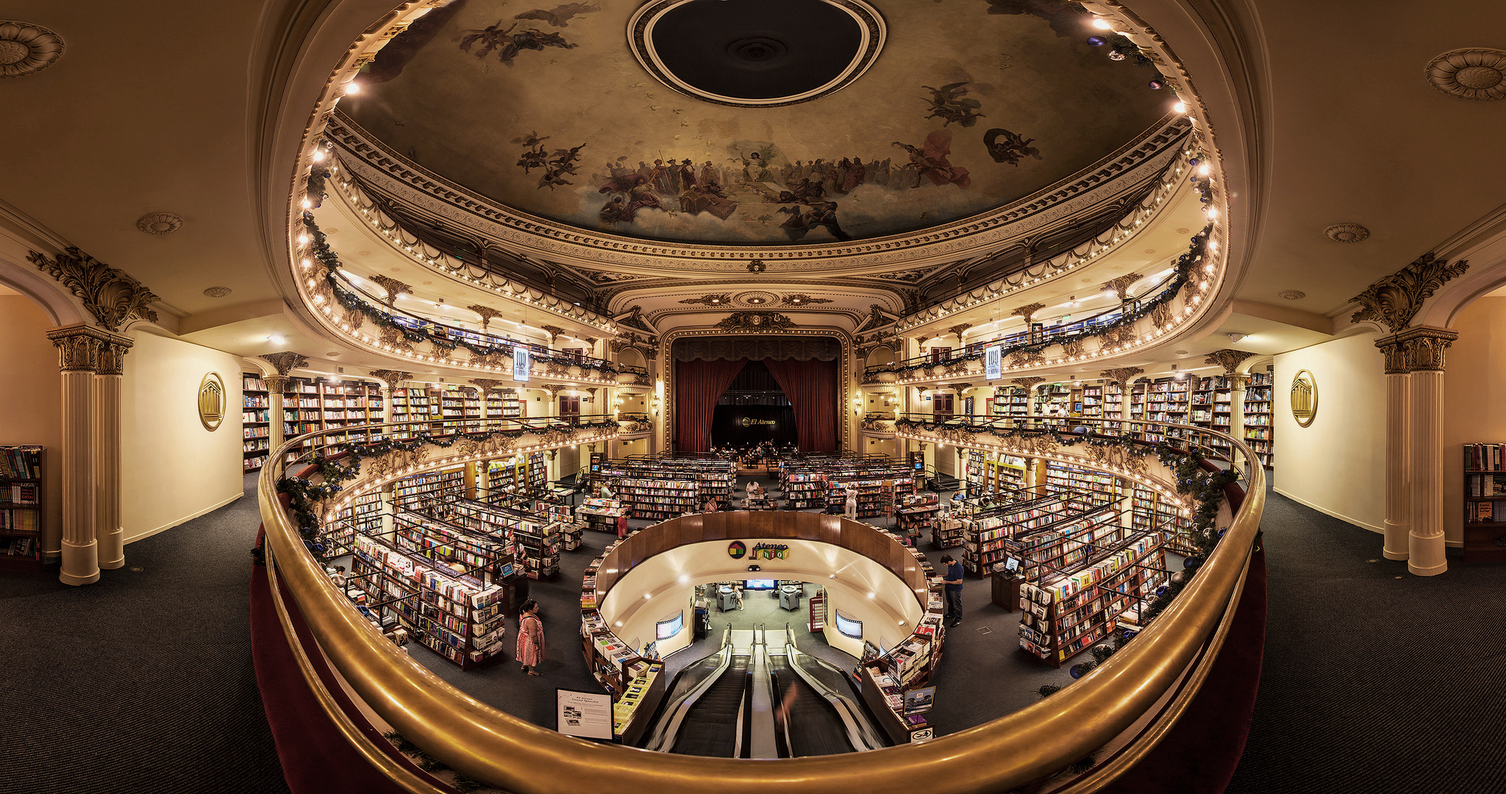
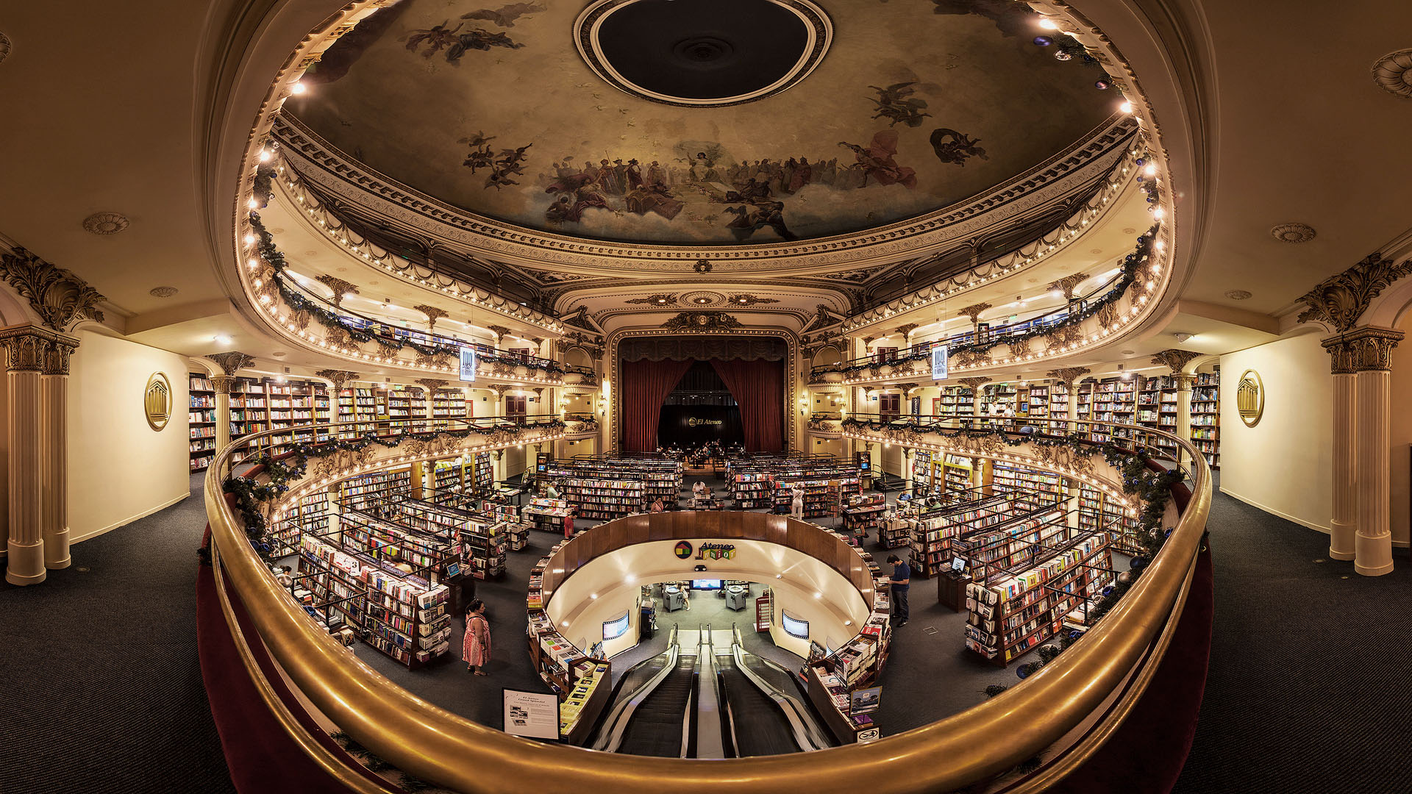
centered background image, tweaked layout and colors

diff --git a/index.html b/index.html
@@ -19,201 +19,189 @@
 
     <!-- Custom Fonts -->
     <link href="font-awesome/css/font-awesome.min.css" rel="stylesheet" type="text/css">
-    <link href="http://fonts.googleapis.com/css?family=Lora:400,700,400italic,700italic" rel="stylesheet" type="text/css">
+    <link href="http://fonts.googleapis.com/css?family=Lora:400,700,400italic,700italic" rel="stylesheet"
+          type="text/css">
     <link href="http://fonts.googleapis.com/css?family=Montserrat:400,700" rel="stylesheet" type="text/css">
 
     <!-- HTML5 Shim and Respond.js IE8 support of HTML5 elements and media queries -->
     <!-- WARNING: Respond.js doesn't work if you view the page via file:// -->
     <!--[if lt IE 9]>
-        <script src="https://oss.maxcdn.com/libs/html5shiv/3.7.0/html5shiv.js"></script>
-        <script src="https://oss.maxcdn.com/libs/respond.js/1.4.2/respond.min.js"></script>
+    <script src="https://oss.maxcdn.com/libs/html5shiv/3.7.0/html5shiv.js"></script>
+    <script src="https://oss.maxcdn.com/libs/respond.js/1.4.2/respond.min.js"></script>
     <![endif]-->
 
 </head>
 
 <body id="page-top" data-spy="scroll" data-target=".navbar-fixed-top">
 
-    <!-- Navigation -->
-    <nav class="navbar navbar-custom navbar-fixed-top" role="navigation">
+<!-- Navigation -->
+<nav class="navbar navbar-custom navbar-fixed-top" role="navigation">
+    <div class="container">
+        <div class="navbar-header">
+            <button type="button" class="navbar-toggle" data-toggle="collapse" data-target=".navbar-main-collapse">
+                <i class="fa fa-bars"></i>
+            </button>
+            <a class="navbar-brand page-scroll" href="#page-top">
+                <i class="fa fa-music"></i> <span class="light">The Music Connection Machine</span>
+            </a>
+        </div>
+
+        <!-- Collect the nav links, forms, and other content for toggling -->
+        <div class="collapse navbar-collapse navbar-right navbar-main-collapse">
+            <ul class="nav navbar-nav">
+                <!-- Hidden li included to remove active class from about link when scrolled up past about section -->
+                <li class="hidden">
+                    <a href="#page-top"></a>
+                </li>
+                <li>
+                    <a class="page-scroll" href="#plan">Plan</a>
+                </li>
+                <li>
+                    <a class="page-scroll" href="#how">How</a>
+                </li>
+                <li>
+                    <a class="page-scroll" href="#features">Features</a>
+                </li>
+                <li>
+                    <a class="page-scroll" href="#survey">Survey</a>
+                </li>
+            </ul>
+        </div>
+        <!-- /.navbar-collapse -->
+    </div>
+    <!-- /.container -->
+</nav>
+
+<!-- Intro Header -->
+<header class="intro">
+    <div class="intro-body">
         <div class="container">
-            <div class="navbar-header">
-                <button type="button" class="navbar-toggle" data-toggle="collapse" data-target=".navbar-main-collapse">
-                    <i class="fa fa-bars"></i>
-                </button>
-                <a class="navbar-brand page-scroll" href="#page-top">
-                    <i class="fa fa-music"></i>  <span class="light">Peachnote</span> Survey
-                </a>
-            </div>
+            <div class="row" style="background: rgba(256,256,256,0.9); margin-top: 100px; margin-left: 100px;
+                 margin-right: 100px; padding-top: 50px; padding-bottom: 40px; border-radius: 1px; color: black">
+                <div class="col-md-8 col-md-offset-2" style="width: 77%; margin-left: 11.5%">
+                    <h1 class="brand-heading">Would you like to</h1>
 
-            <!-- Collect the nav links, forms, and other content for toggling -->
-            <div class="collapse navbar-collapse navbar-right navbar-main-collapse">
-                <ul class="nav navbar-nav">
-                    <!-- Hidden li included to remove active class from about link when scrolled up past about section -->
-                    <li class="hidden">
-                        <a href="#page-top"></a>
-                    </li>
-                    <li>
-                        <a class="page-scroll" href="#about">About</a>
-                    </li>
-                    <li>
-                        <a class="page-scroll" href="#survey">Survey</a>
-                    </li>
-                    <li>
-                        <a class="page-scroll" href="#contact">Contact</a>
-                    </li>
-                </ul>
-            </div>
-            <!-- /.navbar-collapse -->
-        </div>
-        <!-- /.container -->
-    </nav>
+                    <p class="intro-text" style="line-height: 50px; font-size:32px;">
+                        Have a perfect musical memory?<br>
+                        Know every score and recording by heart?<br>
+                        Have read every book about music?<br>
+                        Be able to make sense of it all?<br>
 
-    <!-- Intro Header -->
-    <header class="intro">
-        <div class="intro-body">
-            <div class="container">
-                <div class="row" style="background: rgba(0,0,0,0.8); margin: 100px; padding: 50px; border-radius: 1px">
-                    <div class="col-md-8 col-md-offset-2">
-                        <h1 class="brand-heading">Would you like to</h1>
-                        <p class="intro-text">
-                          <span style="font-family: &#39;open sans&#39;; font-size: 24px; line-height: 38px;">Have a perfect musical memory?</span><br>
-                          <span style="font-size:24px;"><span style="font-family:open sans;">Know every score and recording by heart?</span><br>
-                          <span style="font-size:24px;"><span style="font-family:open sans;">Have read every book about music?</span><br>
-                          <span style="font-size:24px;"><span style="font-family:open sans;">Be able to make sense of all that?</span><br>
-
-                        </p>
-                        <a href="#about" class="btn btn-circle page-scroll">
-                            <i class="fa fa-angle-double-down animated"></i>
-                        </a>
-                    </div>
+                    </p>
+                    <a href="#plan" class="btn btn-circle page-scroll">
+                        <i class="fa fa-angle-double-down animated"></i>
+                    </a>
                 </div>
             </div>
         </div>
-    </header>
+    </div>
+</header>
 
-    <!-- About Section -->
-    <section id="about" class="container content-section text-center">
-        <div class="row">
-            <div class="col-lg-8 col-lg-offset-2">
-                <h2>We sure would</h2>
-                <p><span style="font-family:open sans;"><span style="font-size:24px;">That's why we at Peachnote
-                	are planning a project that will let <em>you</em>, <br>us and everybody else feel a bit like we could be all that.</span></span></p>
-            </div>
+<!-- About Section -->
+<section id="plan" class="container content-section text-center">
+    <div class="row">
+        <div class="col-lg-8 col-lg-offset-2">
+            <h2>We sure would</h2>
+
+            <p><span style="font-family:open sans;"><span style="font-size:24px;">That's why we at Peachnote
+                	are planning a project <br>that will let <em>you</em>, us and everybody else <br> feel a bit like we could be all that.</span></span>
+            </p>
         </div>
-    </section>
+    </div>
+</section>
 
-    <section id="foo" class="container content-section text-center">
-        <div class="row">
-            <div class="col-lg-8 col-lg-offset-2">
-                <h2>This is how it will work</h2>
-                <p><span style="font-family:open sans;"><span style="font-size:24px;">
-                  We analyze every score, recording and book
-                  that we can get our hands on,
-                  find interesting connections between them
-                  and make these connections accessible through easy to use interfaces,
-                  so that your musical knowledge stretches further and further,
+<section id="how" class="container content-section text-center">
+    <div class="row">
+        <div class="col-lg-8 col-lg-offset-2">
+            <h2>This is how it will work</h2>
+
+            <p><span style="font-family:open sans;"><span style="font-size:24px;">
+                  We analyze every score, recording and book<br>
+                  that we can get our hands on,<br>
+                  find interesting connections between them<br>
+                  and make these connections accessible <br>through easy to use interfaces,<br>
+                  so that your musical knowledge stretches further and further,<br>
                   click for click</span></span></p>
-            </div>
         </div>
-    </section>
+    </div>
+</section>
 
-    <section id="foo" class="container content-section text-center">
-        <div class="row">
+<section id="features" class="container content-section text-center">
+    <div class="row">
+        <div class="col-lg-8 col-lg-offset-2">
+            <h2>Some examples <br> of what you'll be able to do</h2>
+
+            <p>
+            <table>
+                <tr style="border: 0px; font-size:24px; font-family:open sans; margin: 0; padding: 0; margin-bottom: 20px;">
+                    <td>
+                        <ul>
+                            <li>
+                                See the differences between various sheet music editions
+                            </li>
+                            <li>
+                                See how composers influenced each other throughout the history
+                            </li>
+                            <li>
+                                See how musical pieces are connected by quotations throughout the history
+                            </li>
+                        </ul>
+                    </td>
+                    <td>
+                        <ul>
+                            <li>
+                                Hear how each place in a score sounds in various performances
+                            </li>
+                            <li>
+                                See the differences between multiple interpretations
+                            </li>
+                            <li>
+                                See how similar or dissimilar composers and musicians are based on how their style
+                            </li>
+                        </ul>
+                    </td>
+                </tr>
+            </table>
+            </p>
+        </div>
+    </div>
+</section>
+
+<!-- Download Section -->
+<section id="survey" class="content-section text-center">
+    <!--<div class="download-section">-->
+        <div class="container">
             <div class="col-lg-8 col-lg-offset-2">
-                <h2>Some examples of what you'll be able to do</h2>
-                <p>
-                  <table>
-                    <tr>
-                      <td style="border: 0px;">
-                  <ul>
-                  <li style="line-height: 30px; margin: 0; padding: 0; margin-bottom: 20px;">
-                  <span style="font-size:22px;"><span style="font-family:open sans;">Hear how each place in a score sounds in various performances</span></span>
-                  </li>
-                  <li style="line-height: 30px; margin: 0; padding: 0; margin-bottom: 20px;">
-                  <span style="font-size:22px;"><span style="font-family:open sans;">See how composers influenced each other throughout the history</span></span>
-                  </li>
-                  <li style="line-height: 30px; margin: 0; padding: 0; margin-bottom: 20px;">
-                  <span style="font-size:22px;"><span style="font-family:open sans;">See how musical pieces are connected by quotations throughout the history</span></span>
-                  </li>
-                  </td>
-                  <td style="border: 0px;">
-                  <ul>
-                    <li style="line-height: 30px; margin: 0; padding: 0; margin-bottom: 20px;">
-                  <span style="font-size:22px;"><span style="font-family:open sans;">See the differences between various sheet music editions</span></span>
-                  </li>
-                  <li style="line-height: 30px; margin: 0; padding: 0; margin-bottom: 20px;">
-                  <span style="font-size:22px;"><span style="font-family:open sans;">See the differences between multiple interpretations</span></span>
-                  </li>
-                  <li style="line-height: 30px; margin: 0; padding: 0; margin-bottom: 20px;">
-                  <span style="font-size:22px;"><span style="font-family:open sans;">See how similar or dissimilar composers and musicians are based on how their style</span></span>
-                  </li>
-                  </ul>
-                  </td>
-                  </tr>
-                  </table>
-                </p>
+                <h2>Your interests will direct our work</h2>
+
+                <p>Which tools should we build for you?<br>
+                    Which questions would you ask the system?<br>
+                    Tell us and be the first to know<br>
+                    when we have built the tools you wanted to have. </p>
+                <a href="https://docs.google.com/forms/d/1znpMOy_xWsbtz9Xocbxkrykc7ndbdex3IJsBBEjY3R0/viewform"
+                   class="btn btn-default btn-lg">To the Survey</a>
             </div>
         </div>
-    </section>
+    <!--</div>-->
+</section>
 
-    <!-- Download Section -->
-    <section id="survey" class="content-section text-center">
-        <div class="download-section">
-            <div class="container">
-                <div class="col-lg-8 col-lg-offset-2">
-                    <h2>Your interests will direct our work</h2>
-                    <p>Which tools should we build for you?<br>
-                        Which questions would you ask the system?<br>
-                        Tell us and be the first to know<br>
-                        when we have built the tools you wanted to have. </p>
-                    <a href="https://docs.google.com/forms/d/1znpMOy_xWsbtz9Xocbxkrykc7ndbdex3IJsBBEjY3R0/viewform" class="btn btn-default btn-lg">To the Survey</a>
-                </div>
-            </div>
-        </div>
-    </section>
+<!-- Footer -->
+<footer>
+    <div class="container text-center">
+        <p>Copyright &copy; Peachnote 2015</p>
+    </div>
+</footer>
 
-    <!-- Contact Section -->
-    <section id="contact" class="container content-section text-center">
-        <div class="row">
-            <div class="col-lg-8 col-lg-offset-2">
-                <h2>Contact Peachnote</h2>
-                <p>Feel free to email us to provide some feedback or to just say hello!</p>
-                <p><a href="mailto:foo@foo.com">foo@foo.com</a>
-                </p>
-                <ul class="list-inline banner-social-buttons">
-                    <li>
-                        <a href="https://twitter.com/SBootstrap" class="btn btn-default btn-lg"><i class="fa fa-twitter fa-fw"></i> <span class="network-name">Twitter</span></a>
-                    </li>
-                    <li>
-                        <a href="https://github.com/IronSummitMedia/startbootstrap" class="btn btn-default btn-lg"><i class="fa fa-github fa-fw"></i> <span class="network-name">Github</span></a>
-                    </li>
-                    <li>
-                        <a href="https://plus.google.com/+Startbootstrap/posts" class="btn btn-default btn-lg"><i class="fa fa-google-plus fa-fw"></i> <span class="network-name">Google+</span></a>
-                    </li>
-                </ul>
-            </div>
-        </div>
-    </section>
+<!-- jQuery -->
+<script src="js/jquery.js"></script>
 
-    <!-- Footer -->
-    <footer>
-        <div class="container text-center">
-            <p>Copyright &copy; Peachnote 2014</p>
-            <p>Pictures: <a href="https://www.flickr.com/photos/fotoquique/8300720149/sizes/k/" title="El Ateneo Grand by Henrik Dolle">El Ateneo Grand by Henrik Dolle</a> and <a href="https://www.flickr.com/photos/kryshen/5417558936" title="Scores by Mikhail Kryshen, on Flickr">Scores by Mikhail Kryshen</a>
+<!-- Bootstrap Core JavaScript -->
+<script src="js/bootstrap.min.js"></script>
 
-        </div>
-    </footer>
-
-    <!-- jQuery -->
-    <script src="js/jquery.js"></script>
-
-    <!-- Bootstrap Core JavaScript -->
-    <script src="js/bootstrap.min.js"></script>
-
-    <!-- Plugin JavaScript -->
-    <script src="js/jquery.easing.min.js"></script>
-    <!-- Custom Theme JavaScript -->
-    <script src="js/grayscale.js"></script>
+<!-- Plugin JavaScript -->
+<script src="js/jquery.easing.min.js"></script>
+<!-- Custom Theme JavaScript -->
+<script src="js/grayscale.js"></script>
 
 </body>
 

diff --git a/css/grayscale.css b/css/grayscale.css
@@ -31,7 +31,7 @@ h6 {
 }
 
 h2 {
-  color: #42DCA3;
+  color: #855026;
 }
 
 p {
@@ -197,10 +197,10 @@ a:focus {
     height: 70px;
     margin-top: 15px;
     padding: 7px 16px;
-    border: 2px solid #fff;
+    border: 2px solid #000;
     border-radius: 100%!important;
     font-size: 40px;
-    color: #fff;
+    color: #000;
     background: 0 0;
     -webkit-transition: background .3s ease-in-out;
     -moz-transition: background .3s ease-in-out;
@@ -210,7 +210,7 @@ a:focus {
 .btn-circle:hover,
 .btn-circle:focus {
     outline: 0;
-    color: #fff;
+    color: #000;
     background: rgba(255,255,255,.1);
 }
 
